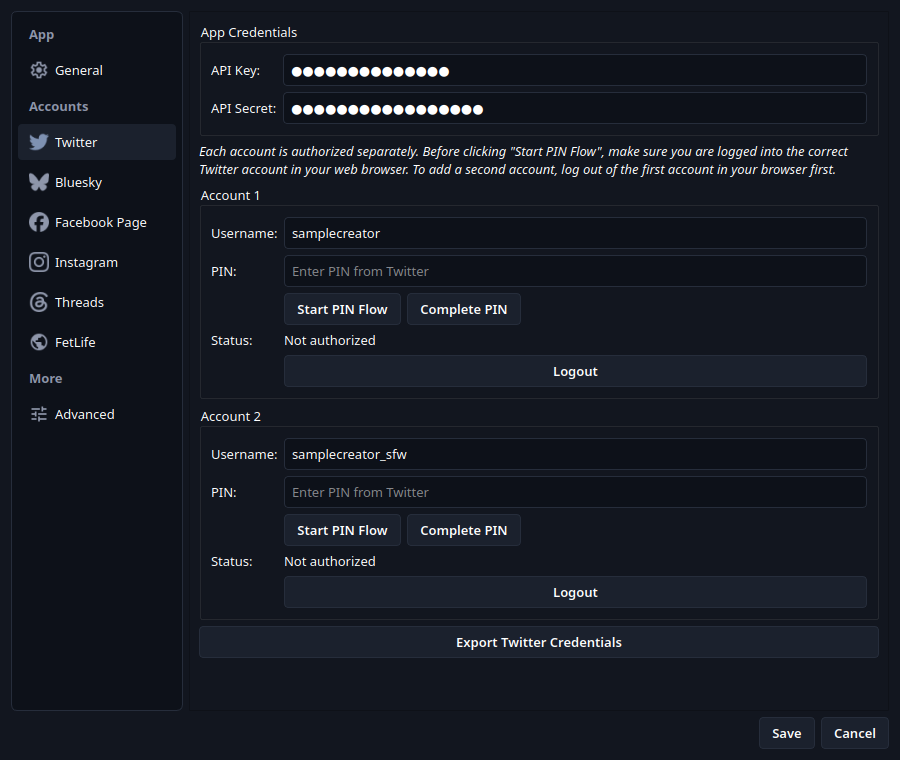
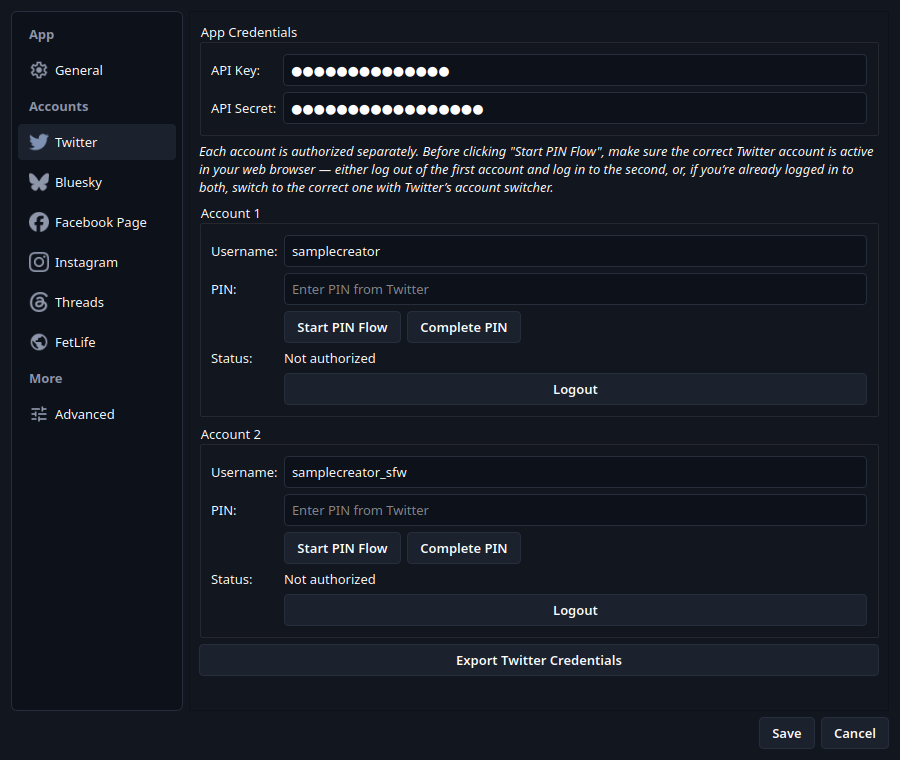
Align Twitter second-account guidance in Settings
Match the setup wizard by documenting both supported browser flows: logging
out and back in, or selecting the correct account with Twitter's account
switcher. Regenerate the Settings screenshot and add regression coverage.

🌸 Shipped with Kanna — https://kanna.sh

Kanna-Agent: codex/gpt-5.6-sol

diff --git a/tests/test_settings_dialog.py b/tests/test_settings_dialog.py
@@ -114,6 +114,20 @@ def test_settings_dialog_saves_config_and_auth(qtbot, tmp_path, monkeypatch):
     assert bluesky_alt['identifier'] == 'alt.bsky.social'
 
 
+def test_twitter_guidance_matches_setup_wizard_account_switching(qtbot, tmp_path, monkeypatch):
+    from PyQt6.QtWidgets import QLabel
+
+    dialog = SettingsDialog(
+        _make_config(tmp_path, monkeypatch),
+        _make_auth(tmp_path, monkeypatch),
+    )
+    qtbot.addWidget(dialog)
+
+    label_text = ' '.join(label.text() for label in dialog.findChildren(QLabel))
+    assert 'if you’re already logged in to both' in label_text
+    assert 'Twitter’s account switcher' in label_text
+
+
 def test_autostart_launch_mode_stays_configurable_while_disabled(qtbot, tmp_path, monkeypatch):
     dialog = SettingsDialog(
         _make_config(tmp_path, monkeypatch),

diff --git a/src/gui/settings_dialog.py b/src/gui/settings_dialog.py
@@ -284,9 +284,10 @@ class SettingsDialog(QDialog):
         # Hint
         tw_hint = QLabel(
             '<i>Each account is authorized separately. Before clicking '
-            '"Start PIN Flow", make sure you are logged into the correct '
-            'Twitter account in your web browser. To add a second account, '
-            'log out of the first account in your browser first.</i>'
+            '"Start PIN Flow", make sure the correct Twitter account is active '
+            'in your web browser — either log out of the first account and log '
+            'in to the second, or, if you’re already logged in to both, switch '
+            'to the correct one with Twitter’s account switcher.</i>'
         )
         tw_hint.setWordWrap(True)
         layout.addWidget(tw_hint)
